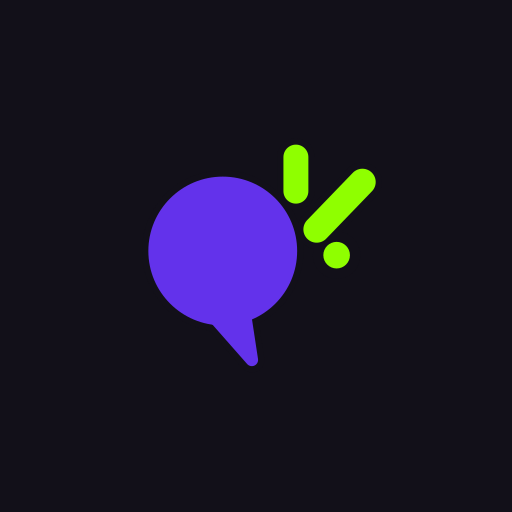
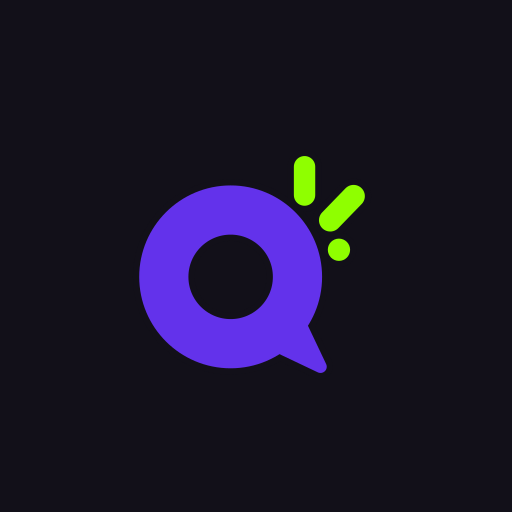
말풍선을 원반에서 링으로 고친다 — 원본 로고와 형태가 달랐다
파비콘이 원본 로고와 다르다는 지적을 받고 렌더의 픽셀을 직접 재봤다. 색 문제가
아니라 형태가 틀려 있었다. 원본의 말풍선은 **가운데가 뚫린 두꺼운 링**인데
꽉 찬 원반으로 그려져 있었다.

실측(1536×1024 원본 기준)을 DESIGN.md §7 에 표로 남긴다 — 안쪽 반지름 178,
바깥 385(비율 0.46), 꼬리는 315° 방향으로 r=535 까지, 각폭 300–330°.
가운데 구멍이 이 마크를 알아보게 하는 전부다.

눈으로 읽다가 두 번 속았고 그 함정도 같이 적었다.

  1. 홈이 파인 줄 알았다. 스파크 광륜이 링의 오른쪽 위를 덮어서 잘려 보인다.
     각도별로 색을 찍어보면 스파크 반대편(180°)은 #130b1b 가 r=380 까지
     일정한데, 스파크 쪽(30°)은 같은 보라가 #25281b → #3b4f16 으로 초록에
     덮인다. 섞이는 중간색이 나오면 잘린 게 아니라 가려진 것이다. 링은 끊기지
     않는다.
  2. 렌더에서 색을 빼오면 안 된다. 말풍선 한가운데가 #000000 이고 가장 밝은
     픽셀조차 #1d1a1f 다 — 보이는 보라는 면이 아니라 광륜이다. 그 값을 마크에
     넣으면 어두운 바탕에서 1.1:1 로 사라지고 흰 바탕에서는 브랜드 색이 하나도
     안 남는다. 마크의 말풍선은 --iris 다.

비율은 렌더 그대로 옮겼다. 뺀 것은 글로우뿐이고(16px 에서 회색 얼룩이 되고
§2 가 UI 에서 금지한다), 소형 보정판만 스파크 획을 굵히고 링 벽을 얇혀 16px
에서 구멍이 메워지지 않게 했다.

파비콘·앱아이콘·maskable·공유 카드를 새 마크로 다시 구웠다.

Changed region(s): [[0.25, 0.2812, 0.6875, 0.75], [0.6562, 0.3125, 0.75, 0.4062]]

diff --git a/docs/DESIGN.md b/docs/DESIGN.md
@@ -458,6 +458,33 @@ ep 6 · 이게 되네?             영상
 
 **서비스마다 로고를 새로 그리지 않는다.** 워드마크 앞에 붙는 **마크 하나**가 모든 서비스의 공통 얼굴이다. **생각(말풍선)** 옆으로 **스파크 세 획**이 튄 형태다 — §1 의 60/30/10 이 마크 안에서 한 번 더 반복된다: 어두운 테두리, 보라 말풍선, 형광 스파크.
 
+#### 실측 치수 — 다시 그릴 일이 생기면 여기서 시작한다
+
+말풍선은 **채워진 원이 아니라 두꺼운 링**이다 (`public/brand/source/logo-render.png` 실측, 원본 1536×1024 기준).
+
+| | 값 | 비율 |
+| --- | --- | --- |
+| 링 중심 | (704, 564) | — |
+| 안쪽 반지름 | **178px** | 바깥의 0.46 |
+| 바깥 반지름 | **385px** | — |
+| 링 벽 두께 | 207px | 바깥지름의 27% |
+| 꼬리 | **315°** 방향, 끝 r=535 | 바깥 반지름의 1.39배 |
+| 꼬리 각폭 | 300°–330° | 약 30° |
+| 스파크 무리 | 중심에서 38°, r≈505 | 링 바깥에 살짝 겹친다 |
+
+**가운데 구멍이 이 마크의 핵심이다.** 채워진 원반으로 그리면 형태가 통째로 달라진다 — 실제로 한 번 그렇게 그렸다가 되돌렸다.
+
+> **⚠ 렌더에서 형태를 눈으로 읽지 말 것. 여기서 반드시 속는다.**
+>
+> 원본 렌더는 스파크 광륜이 워낙 세서, **링의 오른쪽 위가 잘려 보인다.** 눈으로는 홈(notch)이 파인 것처럼 보이고 실제로 그렇게 그렸었다. 픽셀을 찍어보면 아니다 —
+>
+> - 스파크 반대편(180°): `#130b1b` 가 r=380 까지 **일정**하게 이어진다
+> - 스파크 쪽(30°): 같은 보라가 r=340 까지 가다가 `#25281b` → `#3b4f16` 으로 **초록이 덮는다**
+>
+> 섞이는 중간색이 나오면 그건 잘린 게 아니라 **가려진 것**이다. 링은 끊김 없이 이어진다. 형태를 확정할 땐 각도별로 반지름을 훑어 색을 찍어볼 것.
+>
+> 같은 이유로 **렌더에서 색을 빼오지도 말 것.** 렌더의 말풍선은 한가운데가 `#000000` 이고 가장 밝은 픽셀조차 `#1d1a1f` 다 — 보이는 보라는 면이 아니라 **광륜**이다. 그 값을 그대로 마크에 넣으면 어두운 바탕에서 1.1:1 로 사라지고 흰 바탕에서는 브랜드 색이 하나도 안 남는다. 마크의 말풍선은 `--iris`(`#6332EB`)다.
+
 > **폐기 이력이 셋 있다.** ①**초록 점 하나** — 만들 것도 없고 어떤 이름에도 붙었지만, 기억에 남는 게 색뿐이라 "형광 초록 쓰는 사이트" 이상이 되질 않았다. ②**캐릭터** — 얼굴은 남지만 16px에서 눈·입이 전부 뭉개져서 파비콘용으로 머리만 따로 그려야 했다. 마크를 두 벌로 관리하는 순간 둘은 반드시 어긋난다. ③**ㄱ 과 점** (~2026-08) — 형태는 끝까지 버텼지만, 채널이 "만드는 사람"에서 "AX하는 창업가"로 옮겨가면서 **자음 하나가 더는 그 얘기를 하지 않았다.** 지금 마크에서 말풍선은 생각을, 스파크는 그 생각이 실행으로 튀는 순간을 맡는다.
 
 #### 스파크가 마크다. 말풍선은 그 스파크가 앉는 자리다
@@ -504,7 +531,12 @@ ep 6 · 이게 되네?             영상
 
 `public/brand/source/` 의 PNG 두 장(`logo-render` · `logo-scale-test`)은 **키비주얼 렌더**다. 1536×1024 에 글로우가 구워져 있고, 마크가 프레임 가운데도 아니다. 여기서 가져올 것은 **형태와 배치**뿐이고, 실제로 쓰는 파일은 위의 SVG 두 개다.
 
-⚠ **렌더의 구도를 그대로 벡터로 옮기면 16px 에서 죽는다.** 원본은 말풍선이 프레임의 8할을 먹고 스파크가 구석에 붙어 있는데, 그 비율로 26px 헤더에 넣으면 스파크 획이 1px 미만이 된다. SVG 는 말풍선을 줄이고 스파크를 키워 **다시 균형을 잡은 것**이다.
+**비율은 렌더 그대로 옮겼다** (위 실측 표). 형태를 "정리"하고 싶은 유혹이 들어도 링 두께와 꼬리 각도는 건드리지 않는다 — 그게 이 마크를 알아보게 하는 전부다.
+
+⚠ 바꾼 것은 **두 가지뿐**이고 둘 다 이유가 있다.
+
+- **글로우를 뺐다.** 16px 에서 광륜은 회색 얼룩이 되고, UI 에서 형광 글로우는 §2 가 금지한다. 렌더는 어두운 데서 이 마크를 **찍은 사진**이고, SVG 는 마크 자체다.
+- **소형 보정판(`mark-sm.svg`)에서만 스파크 획을 굵히고 링 벽을 얇혔다.** 원본 비율로 16px 을 그리면 스파크 획이 1px 미만이 되고 링 구멍이 메워진다. 기본판은 실측 비율 그대로다.
 
 **규칙**
 - **투명 배경.** iOS 앱 아이콘만 투명을 못 살리므로 `#121019` 타일 위에 얹는다.
